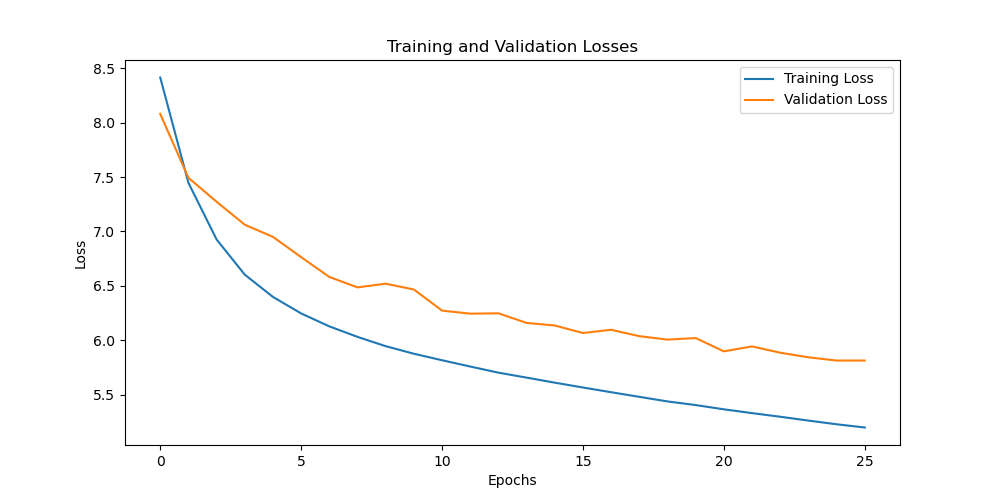
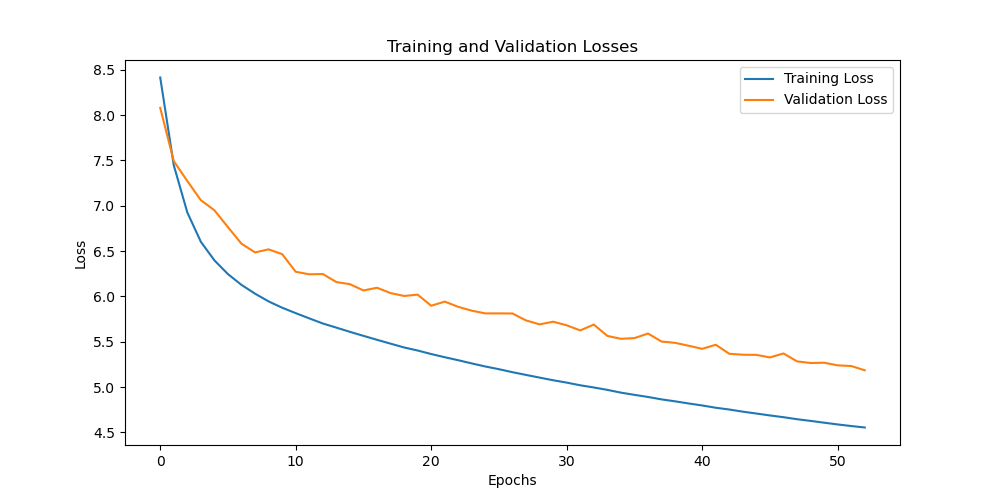
fixed semantics expert, slight color expert improvements

diff --git a/src/training/semantics_expert.py b/src/training/semantics_expert.py
@@ -51,7 +51,7 @@ def train_val(model, device, train_dataloader, val_dataloader, epochs, lr, save_
 
     optimizer = torch.optim.Adam([
         {'params': model.semantic_fcn.parameters(), 'lr': 5e-6, 'weight_decay': 1e-5},
-        {'params': model.compression_layer.parameters()}
+        {'params': model.compression_layer.parameters(), 'weight_decay': 1e-5}
     ], lr=lr)
     scheduler = torch.optim.lr_scheduler.ReduceLROnPlateau(optimizer, 'min', factor=cfg.LR_DECAY_FACTOR, patience=cfg.PATIENCE)
     scaler = GradScaler()
@@ -82,21 +82,20 @@ def train_val(model, device, train_dataloader, val_dataloader, epochs, lr, save_
     for epoch in range(start_epoch, epochs):
         generate_plots(epoch, training_losses, validation_losses, times, save_dir, cfg.PLOT_INTERVAL)
 
-        model.train()
+        model.semantic_fcn.train()
+        model.compression_layer.train()
         epoch_start_time = time.time()
-        epoch_loss = 0.0
+        epoch_train_loss = 0.0
         for idx, batch in enumerate(train_dataloader):
             # if (idx < 2 or idx % 100 == 0): print(f"Loading training batch {idx}", flush=True)
             optimizer.zero_grad()
             with autocast():
-                gt_semantics = batch['gt_semantics'].to(device)
-                gray_images = batch['gray_image'].to(device)
+                gt_semantics = batch['gt_semantics'].to(device, non_blocking=True)
+                gray_images = batch['gray_image'].to(device, non_blocking=True)
 
                 # Repeat locations along batch dimension
                 batch_size = gt_semantics.shape[0]
                 locations = normalized_locations_tensor.unsqueeze(0).expand(batch_size, -1, -1)
-
-                locations.requires_grad_(True)
 
                 preds_semantics = model(locations, gray_images)
                 del locations, gray_images
@@ -107,30 +106,30 @@ def train_val(model, device, train_dataloader, val_dataloader, epochs, lr, save_
 
                 total_loss = loss_semantics
 
-            epoch_loss += total_loss.item()
+            epoch_train_loss += total_loss.item()
             scaler.scale(total_loss).backward()
             scaler.step(optimizer)
             scaler.update()
 
-        average_epoch_loss = epoch_loss / len(train_dataloader)
+        average_epoch_loss = epoch_train_loss / len(train_dataloader)
 
         training_losses['total'].append(average_epoch_loss)
-        training_losses['semantics'].append(loss_semantics.item())
+        training_losses['semantics'].append(average_epoch_loss)
 
-        print(f"Epoch {epoch + 1}/{epochs})")
-        print(f"Training Loss: {average_epoch_loss}")
+        print(f"Epoch {epoch + 1}/{epochs})", flush=True)
+        print(f"Training Loss: {average_epoch_loss}", flush=True)
 
         if torch.cuda.is_available() and not hasattr(model, "_torchdynamo_orig_callable"):
             torch.cuda.empty_cache()
 
         model.eval()
-        val_loss = 0.0
+        epoch_val_loss = 0.0
         with torch.no_grad():
             for batch_idx, batch in enumerate(val_dataloader):
                 # if (idx < 2 or idx % 100 == 0): print(f"Loading validation batch {idx}", flush=True)
                 with autocast():
-                    gt_semantics = batch['gt_semantics'].to(device)
-                    gray_images = batch['gray_image'].to(device)
+                    gt_semantics = batch['gt_semantics'].to(device, non_blocking=True)
+                    gray_images = batch['gray_image'].to(device, non_blocking=True)
 
                     # Repeat locations along batch dimension
                     batch_size = gt_semantics.shape[0]
@@ -144,52 +143,50 @@ def train_val(model, device, train_dataloader, val_dataloader, epochs, lr, save_
                     loss_semantics_val = cfg.WEIGHT_SEMANTICS * criterion_ce_semantics(preds_semantics, gt_semantics)
                     del preds_semantics, gt_semantics
 
-                    val_loss += loss_semantics_val
+                    epoch_val_loss += loss_semantics_val
 
-        average_val_loss = val_loss / len(val_dataloader)
-        semantics_val_loss = loss_semantics_val.item()
+        average_epoch_val_loss = epoch_val_loss / len(val_dataloader)
 
-        validation_losses['total'].append(average_val_loss.item())
-        validation_losses['semantics'].append(semantics_val_loss)
+        validation_losses['total'].append(average_epoch_val_loss)
+        validation_losses['semantics'].append(average_epoch_val_loss)
         times.append(time.time() - epoch_start_time)
-        print(f"Validation Loss: {average_val_loss.item()}")
-        print(f"Total Time: {sum(times)}")
+        print(f"Validation Loss: {average_epoch_val_loss}", flush=True)
+        print(f"Total Time: {sum(times)}", flush=True)
 
-        if semantics_val_loss < best_semantics_val_loss:
-            best_semantics_val_loss = semantics_val_loss
-            epochs_no_improve_semantics = 0
-        else:
-            epochs_no_improve_semantics += 1
+        epochs_no_improve += 1
 
-        if average_val_loss < best_loss:
-            best_loss = average_val_loss
+        if average_epoch_val_loss < best_val_loss:
+            best_val_loss = average_epoch_val_loss
+            epochs_no_improve = 0
             save_best_model(model, save_dir)
-            print(f"New best model saved with validation loss: {best_loss}")
+            print(f"New best model saved with validation loss: {best_val_loss}", flush=True)
 
-        torch.save({
-            'epoch': epoch + 1,
-            'model_state_dict': model.state_dict(),
-            'optimizer_state_dict': optimizer.state_dict(),
-            'scheduler_state_dict': scheduler.state_dict(),
-            'loss': average_epoch_loss,
-            'best_loss': best_loss,
-            'training_losses': training_losses,
-            'validation_losses': validation_losses,
-            'times': times
-        }, checkpoint_path)
-
-        if (epochs_no_improve_semantics >= cfg.EARLY_STOP_EPOCHS) and (epoch >= 200):
-            print(f"Early stop at epoch {epoch + 1}. Semantics val loss did not improve for {cfg.EARLY_STOP_EPOCHS} consecutive epochs.")
-            print(f"Model saved at early stopping point with validation loss: {best_semantics_val_loss}")
+        if (epochs_no_improve >= cfg.EARLY_STOP_EPOCHS) and (epoch >= 50):
+            print(f"Early stop at epoch {epoch + 1}. Validation loss did not improve for {cfg.EARLY_STOP_EPOCHS} consecutive epochs.", flush=True)
+            print(f"Model saved at early stopping point with validation loss: {best_val_loss}", flush=True)
             break
+
+        if (epoch + 1) % cfg.SAVE_INTERVAL == 0:
+            torch.save({
+                'epoch': epoch + 1,
+                'model_state_dict': model.state_dict(),
+                'optimizer_state_dict': optimizer.state_dict(),
+                'scheduler_state_dict': scheduler.state_dict(),
+                'loss': average_epoch_loss,
+                'best_loss': best_val_loss,
+                'training_losses': training_losses,
+                'validation_losses': validation_losses,
+                'times': times
+            }, checkpoint_path)
+
 
         if torch.cuda.is_available() and not hasattr(model, "_torchdynamo_orig_callable"):
             torch.cuda.empty_cache()
 
-        scheduler.step(average_val_loss)
+        scheduler.step(average_epoch_val_loss)
 
     total_time = sum(times)
-    print(f"Total training time: {total_time // 3600:.0f} hours, {(total_time % 3600) // 60:.0f} minutes, {total_time % 60:.0f} seconds")
+    print(f"Total training time: {total_time // 3600:.0f} hours, {(total_time % 3600) // 60:.0f} minutes, {total_time % 60:.0f} seconds", flush=True)
 
     return model
 
@@ -232,11 +229,13 @@ def main():
 
 
 if __name__ == "__main__":
-    parser = argparse.ArgumentParser(description="Train a expert model foucsed on color prediction")
+    parser = argparse.ArgumentParser(description="Train a expert model foucsed on semantics prediction")
     parser.add_argument('--config', type=str, default='src.local_config',
                         help='Path to the configuration module (src.local_config | src.aws_config)')
     parser.add_argument('--scratch', action='store_true', help='If not specified and checkpoint is stored, it will be used')
     args = parser.parse_args()
     cfg = importlib.import_module(args.config)
+
+    torch.set_float32_matmul_precision('high')
 
     main()

diff --git a/src/training/color_expert.py b/src/training/color_expert.py
@@ -55,7 +55,7 @@ def train_val(model, device, train_dataloader, val_dataloader, epochs, lr, save_
 
     optimizer = torch.optim.Adam([
         {'params': model.color_fcn.parameters(), 'weight_decay': 1e-4},
-        {'params': model.compression_layer.parameters()},
+        {'params': model.compression_layer.parameters(), 'weight_decay': 1e-5},
     ], lr=lr)
     scheduler = torch.optim.lr_scheduler.ReduceLROnPlateau(optimizer, 'min', factor=cfg.LR_DECAY_FACTOR, patience=cfg.PATIENCE)
     scaler = GradScaler()
@@ -121,8 +121,8 @@ def train_val(model, device, train_dataloader, val_dataloader, epochs, lr, save_
         training_losses['total'].append(average_epoch_train_loss)
         training_losses['color'].append(average_epoch_train_loss)
 
-        print(f"Epoch {epoch + 1}/{epochs}")
-        print(f"Training Loss: {average_epoch_train_loss}")
+        print(f"Epoch {epoch + 1}/{epochs}", flush=True)
+        print(f"Training Loss: {average_epoch_train_loss}", flush=True)
 
         if torch.cuda.is_available() and not hasattr(model, "_torchdynamo_orig_callable"):
             torch.cuda.empty_cache()
@@ -155,8 +155,8 @@ def train_val(model, device, train_dataloader, val_dataloader, epochs, lr, save_
         validation_losses['total'].append(average_epoch_val_loss)
         validation_losses['color'].append(average_epoch_val_loss)
         times.append(time.time() - epoch_start_time)
-        print(f"Validation Loss: {average_epoch_val_loss}")
-        print(f"Total Time: {sum(times)}")
+        print(f"Validation Loss: {average_epoch_val_loss}", flush=True)
+        print(f"Total Time: {sum(times)}", flush=True)
 
 
         epochs_no_improve += 1
@@ -165,11 +165,11 @@ def train_val(model, device, train_dataloader, val_dataloader, epochs, lr, save_
             epochs_no_improve = 0
             best_val_loss = average_epoch_val_loss
             save_best_model(model, save_dir)
-            print(f"New best model saved with validation loss: {best_val_loss}")
+            print(f"New best model saved with validation loss: {best_val_loss}", flush=True)
 
         if (epochs_no_improve >= cfg.EARLY_STOP_EPOCHS) and (epoch >= 50):
-            print(f"Early stopping triggered at epoch {epoch + 1}. Validatio loss did not improve for {cfg.EARLY_STOP_EPOCHS} consecutive epochs.")
-            print(f"Model saved at early stopping point with validation loss: {best_val_loss}")
+            print(f"Early stopping triggered at epoch {epoch + 1}. Validatio loss did not improve for {cfg.EARLY_STOP_EPOCHS} consecutive epochs.", flush=True)
+            print(f"Model saved at early stopping point with validation loss: {best_val_loss}", flush=True)
             break
 
         if (epoch + 1) % cfg.SAVE_INTERVAL == 0:
@@ -186,14 +186,13 @@ def train_val(model, device, train_dataloader, val_dataloader, epochs, lr, save_
             }, checkpoint_path)
 
 
-
         if torch.cuda.is_available() and not hasattr(model, "_torchdynamo_orig_callable"):
             torch.cuda.empty_cache()
 
         scheduler.step(average_epoch_val_loss)
 
     total_time = sum(times)
-    print(f"Total training time: {total_time // 3600:.0f} hours, {(total_time % 3600) // 60:.0f} minutes, {total_time % 60:.0f} seconds")
+    print(f"Total training time: {total_time // 3600:.0f} hours, {(total_time % 3600) // 60:.0f} minutes, {total_time % 60:.0f} seconds", flush=True)
 
     return model
 

diff --git a/src/local_config.py b/src/local_config.py
@@ -30,7 +30,7 @@ NUM_WORKERS = 3
 PIN_MEMORY = True
 TRAIN_FILES_LIMIT = 8
 VAL_FILES_LIMIT = 8
-TEST_FILES_LIMIT = 20
+TEST_FILES_LIMIT = 500
 
 # Training parameters
 BATCH_SIZE = 4
